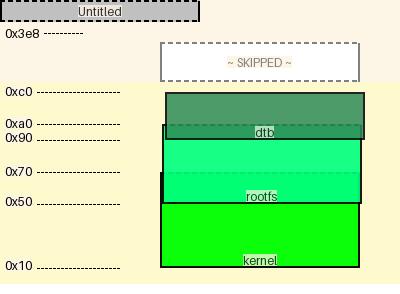
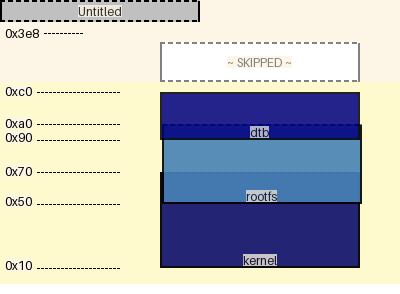
changed indetn scheme default to alternate

Changed region(s): [[0.39, 0.3061, 0.93, 0.9184]]

diff --git a/mm/metamodel.py b/mm/metamodel.py
@@ -116,7 +116,7 @@ class Diagram(ConfigParent):
     ]
     indent_scheme: Annotated[
         IndentScheme,
-        pydantic.Field(IndentScheme.linear, description="Drawing indent for Memory Regions")
+        pydantic.Field(IndentScheme.alternate, description="Drawing indent for Memory Regions")
     ]
 
     @pydantic.field_validator("diagram_name")

diff --git a/doc/example/tests.test_docs_three_maps.md b/doc/example/tests.test_docs_three_maps.md
@@ -1,9 +1,9 @@
 ![memory map diagram](tests.test_docs_three_maps_cropped.png)
 |name|origin|size|free Space|collisions
 |:-|:-|:-|:-|:-|
-|<span style='color:darkslateblue'>Blob6</span>|0x50|0x96|0x302|{'Blob5': '0x50'}|
-|<span style='color:olivedrab'>Blob3</span>|0x50|0x10|0x388|{}|
-|<span style='color:cornflowerblue'>Blob5</span>|0x32|0x64|-0x46|{'Blob4': '0x32', 'Blob6': '0x50'}|
-|<span style='color:mediumpurple'>Blob2</span>|0x10|0x10|0x30|{}|
-|<span style='color:darkcyan'>Blob1</span>|0x10|0x10|0x3c8|{}|
-|<span style='color:black'>Blob4</span>|0xa|0x3c|-0x14|{'Blob5': '0x32'}|
+|<span style='color:olive'>Blob6</span>|0x50|0x96|0x302|{'Blob5': '0x50'}|
+|<span style='color:darkred'>Blob3</span>|0x50|0x10|0x388|{}|
+|<span style='color:mediumaquamarine'>Blob5</span>|0x32|0x64|-0x46|{'Blob4': '0x32', 'Blob6': '0x50'}|
+|<span style='color:darkgreen'>Blob2</span>|0x10|0x10|0x30|{}|
+|<span style='color:slategrey'>Blob1</span>|0x10|0x10|0x3c8|{}|
+|<span style='color:mediumaquamarine'>Blob4</span>|0xa|0x3c|-0x14|{'Blob5': '0x32'}|

diff --git a/doc/example/tests.test_docs_two_maps.md b/doc/example/tests.test_docs_two_maps.md
@@ -1,8 +1,8 @@
 ![memory map diagram](tests.test_docs_two_maps_cropped.png)
 |name|origin|size|free Space|collisions
 |:-|:-|:-|:-|:-|
-|<span style='color:cornflowerblue'>Blob4</span>|0x100|0x10|0x2d8|{}|
-|<span style='color:aquamarine'>Blob3</span>|0x50|0x10|0x388|{}|
-|<span style='color:darkviolet'>Blob5</span>|0x30|0x10|0x10|{}|
-|<span style='color:mediumpurple'>Blob1</span>|0x10|0x10|0xe0|{}|
-|<span style='color:mediumblue'>Blob2</span>|0x10|0x10|0x10|{}|
+|<span style='color:mediumblue'>Blob4</span>|0x100|0x10|0x2d8|{}|
+|<span style='color:darkolivegreen'>Blob3</span>|0x50|0x10|0x388|{}|
+|<span style='color:mediumpurple'>Blob5</span>|0x30|0x10|0x10|{}|
+|<span style='color:darkturquoise'>Blob1</span>|0x10|0x10|0xe0|{}|
+|<span style='color:lightskyblue'>Blob2</span>|0x10|0x10|0x10|{}|

diff --git a/doc/example/tests.test_docs_collisions.md b/doc/example/tests.test_docs_collisions.md
@@ -1,6 +1,6 @@
 ![memory map diagram](tests.test_docs_collisions_cropped.png)
 |name|origin|size|free Space|collisions
 |:-|:-|:-|:-|:-|
-|<span style='color:seagreen'>dtb</span>|0x90|0x30|0x328|{'rootfs': '0x90'}|
-|<span style='color:springgreen'>rootfs</span>|0x50|0x50|-0x10|{'kernel': '0x50', 'dtb': '0x90'}|
-|<span style='color:lime'>kernel</span>|0x10|0x60|-0x20|{'rootfs': '0x50'}|
+|<span style='color:navy'>dtb</span>|0x90|0x30|0x328|{'rootfs': '0x90'}|
+|<span style='color:steelblue'>rootfs</span>|0x50|0x50|-0x10|{'kernel': '0x50', 'dtb': '0x90'}|
+|<span style='color:midnightblue'>kernel</span>|0x10|0x60|-0x20|{'rootfs': '0x50'}|

diff --git a/doc/example/tests.test_docs_normal.md b/doc/example/tests.test_docs_normal.md
@@ -1,6 +1,6 @@
 ![memory map diagram](tests.test_docs_normal_cropped.png)
 |name|origin|size|free Space|collisions
 |:-|:-|:-|:-|:-|
-|<span style='color:mediumslateblue'>dtb</span>|0x190|0x30|0x228|{}|
+|<span style='color:rebeccapurple'>dtb</span>|0x190|0x30|0x228|{}|
 |<span style='color:darkslategrey'>rootfs</span>|0x50|0x30|0x110|{}|
-|<span style='color:springgreen'>kernel</span>|0x10|0x30|0x10|{}|
+|<span style='color:darkorchid'>kernel</span>|0x10|0x30|0x10|{}|
